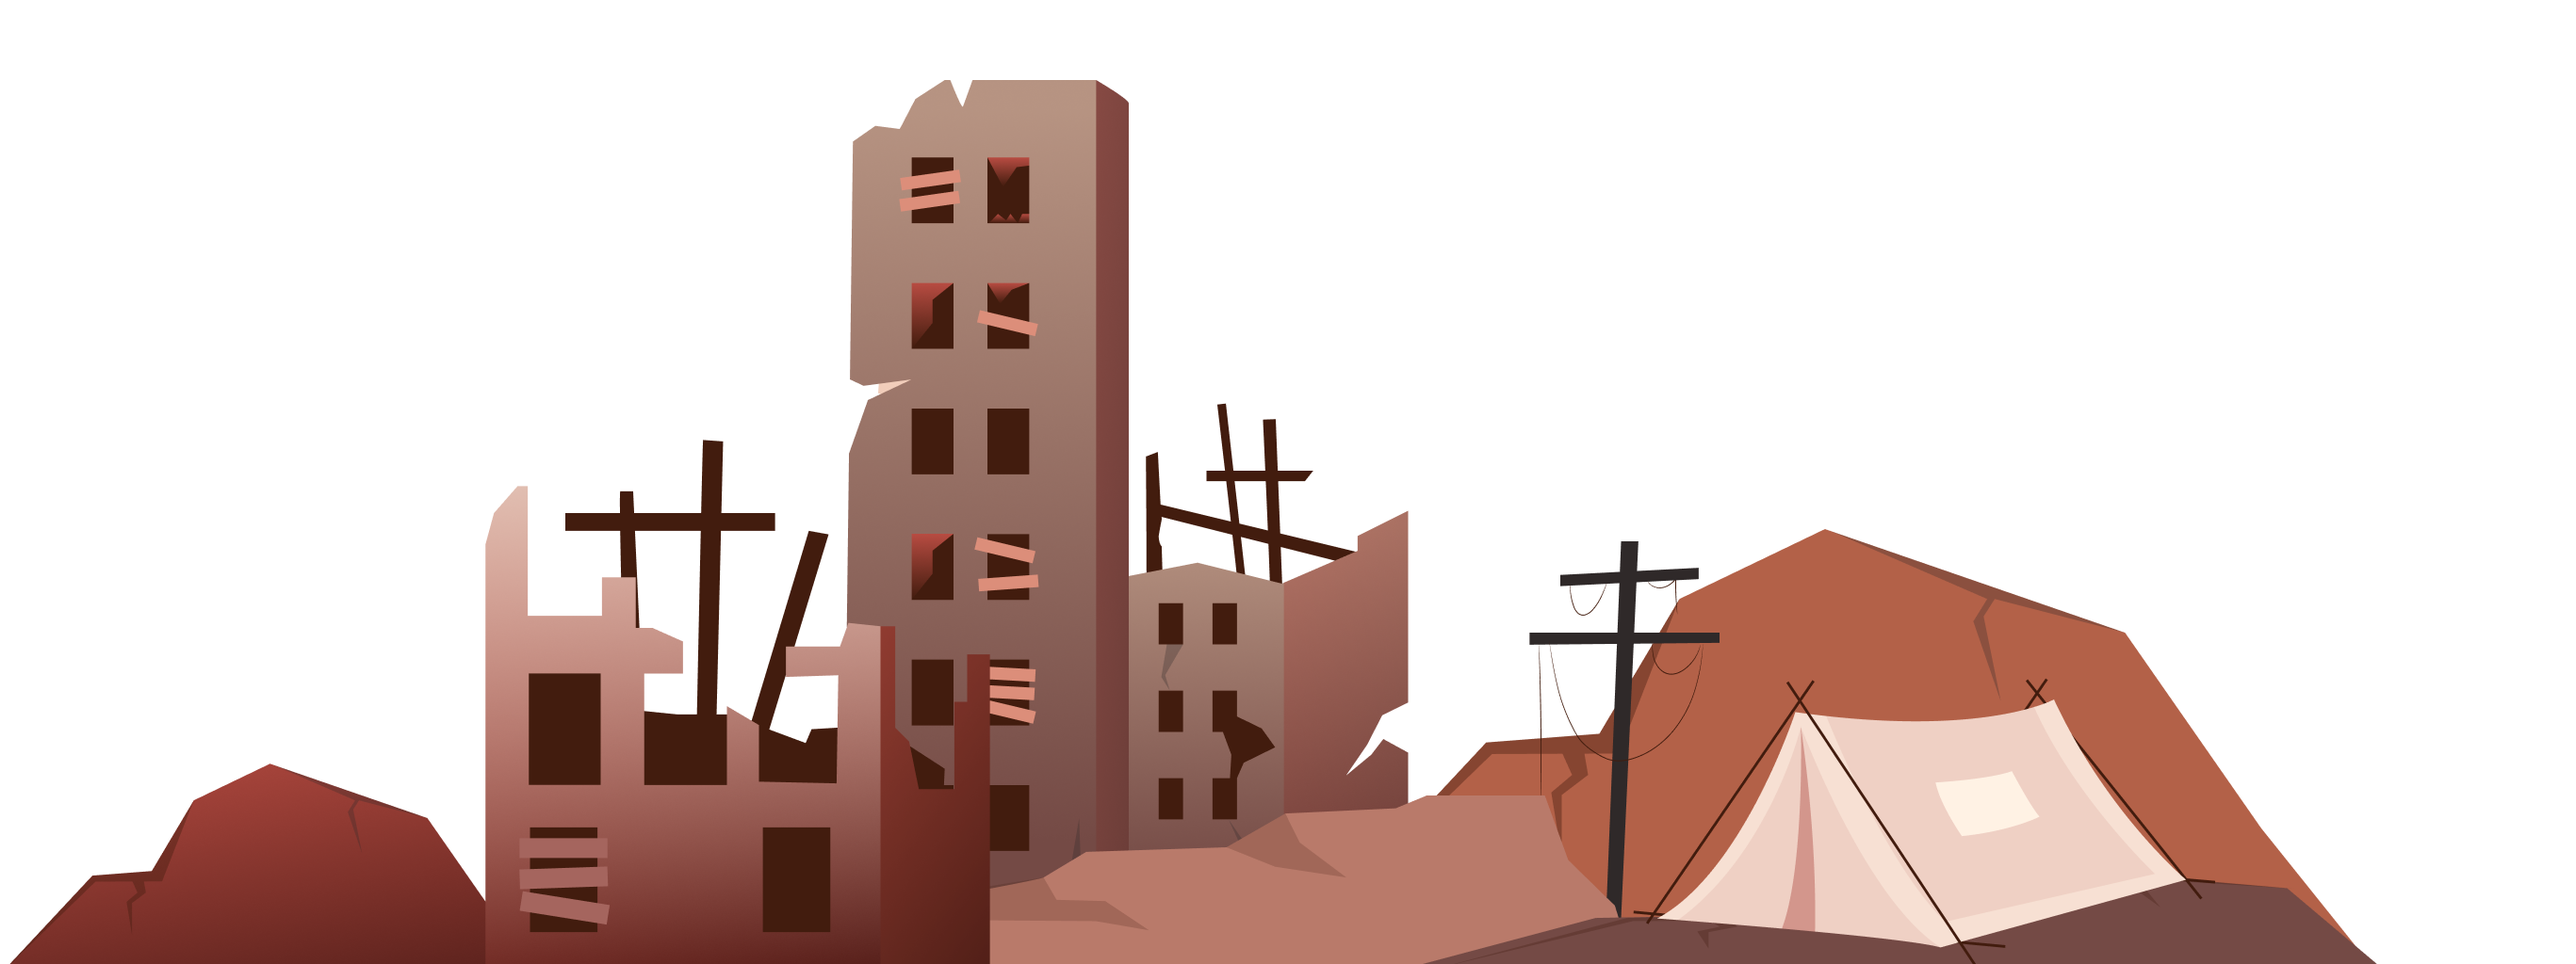
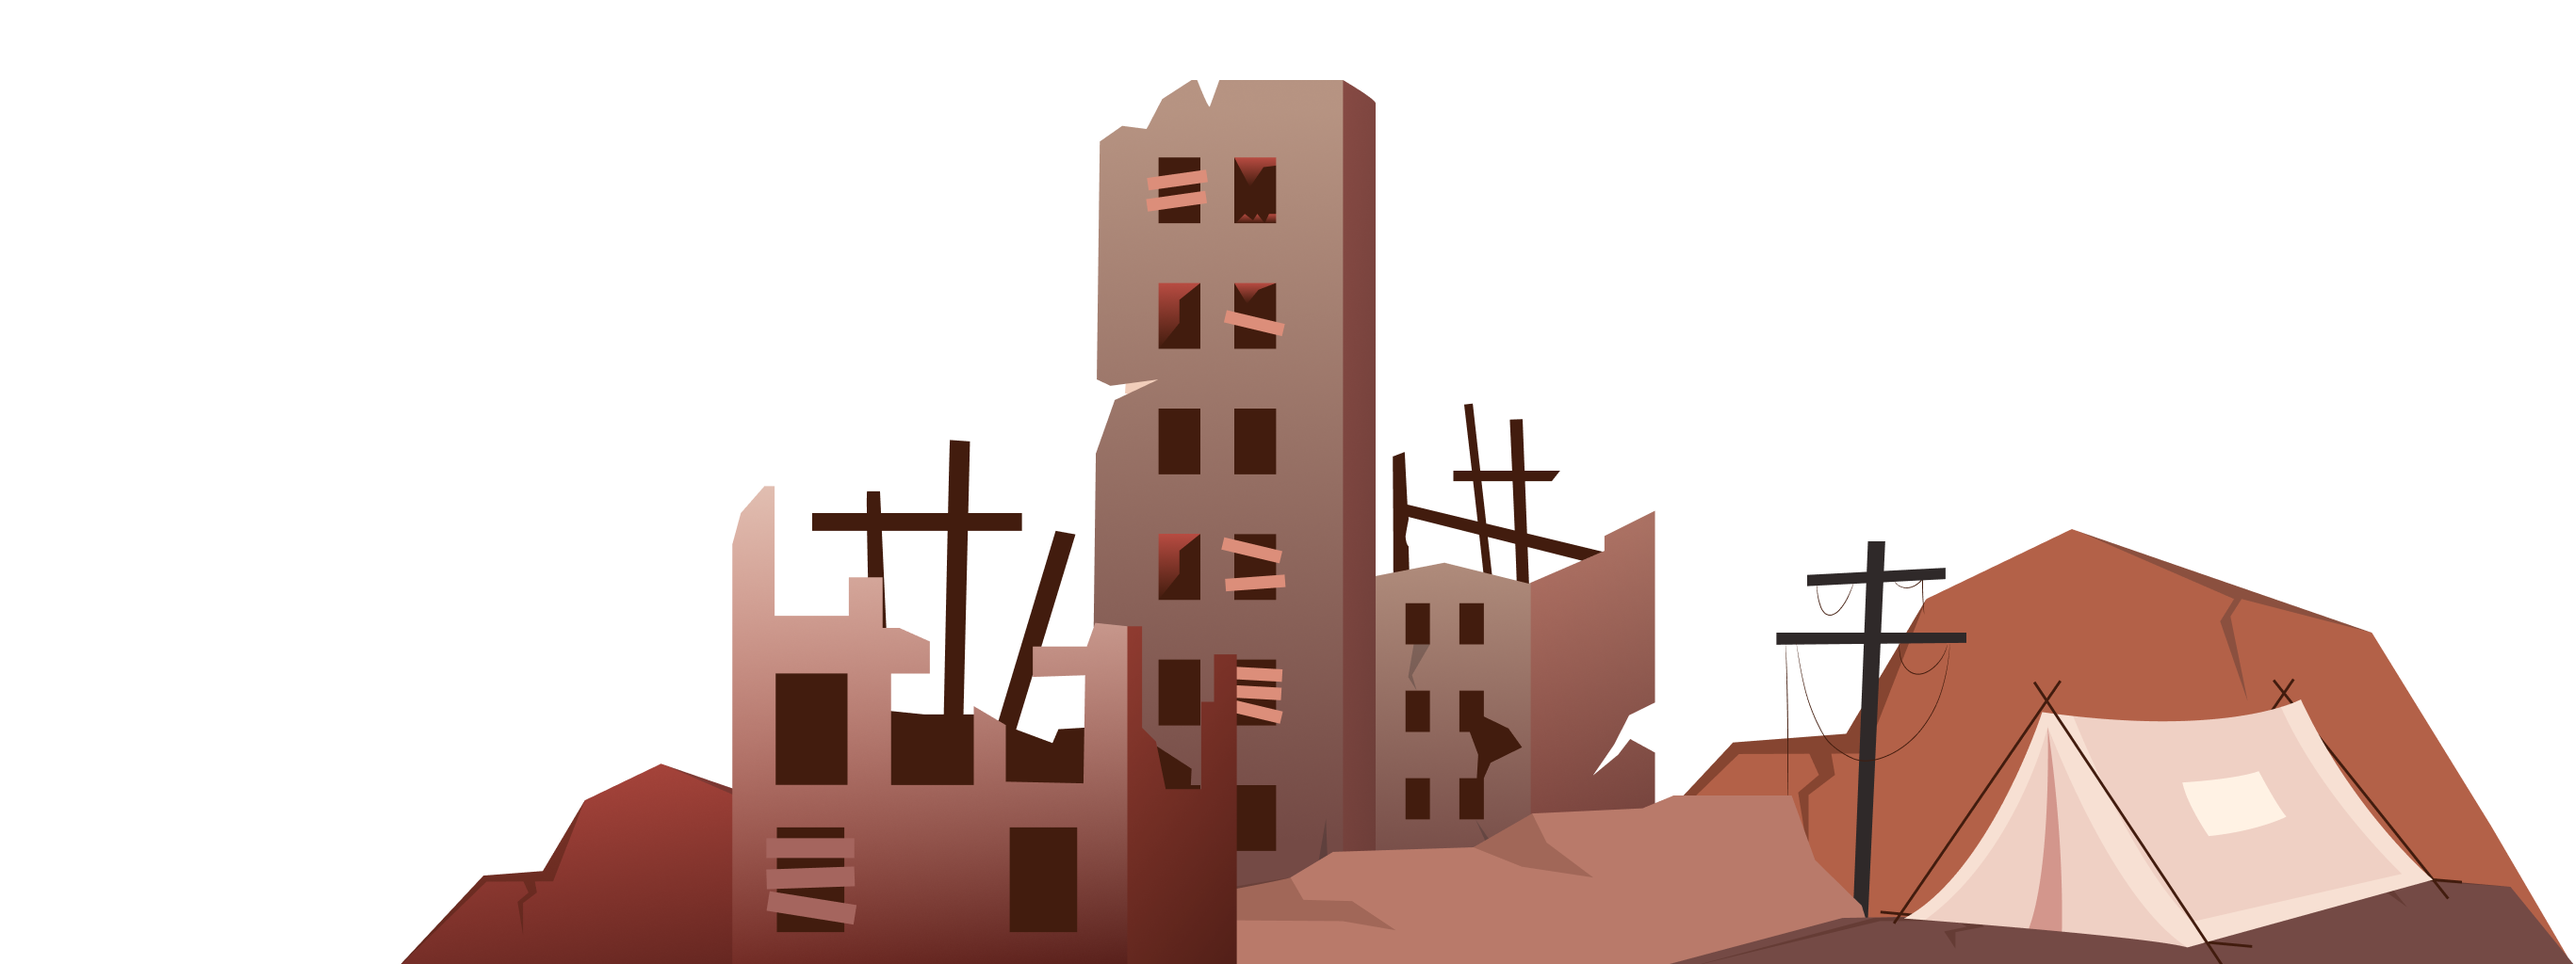
chapter-4 parallax

diff --git a/components/Chapter4.vue b/components/Chapter4.vue
@@ -1,9 +1,13 @@
 <template>
     <section class="b--page-a__item b--chapter4-a" id="Scene4" ref="Scene4" v-if="chapter">
         <div class="b--ss-a"> 
+            <div class="b--ss-a__artwork">
+                <img class="b--ss-a__artwork__media b--ss-a__artwork__media--right" src="@/assets/img/chapter-4/front_tree.png">
+                <img class="b--ss-a__artwork__media b--ss-a__artwork__media--left" src="@/assets/img/chapter-4/front_electric-cable.png">
+            </div>
             <div class="b--ss-a__ft-items">                
-                <img class="b--chapter4-a__artwork" ref="parallax-ft" src="@/assets/img/chapter-4/front-parallax.png">
-                <img v-lazy="require(`@/assets/img/chapter-4/front.png`)" class="b--ss-a__ft-items__artwork b--chapter4-a__artwork"  alt="Tree" />
+                <img class="b--ss-a__ft-items__parallax" ref="parallax-ft" src="@/assets/img/chapter-4/front-parallax.png">
+                <!-- <img class="b--ss-a__ft-items__front" src="@/assets/img/chapter-4/front.png"> -->
             </div>
             <div class="b--ss-a__content">
                 <!-- first position element, card -->
@@ -22,9 +26,10 @@
                     />
                 </div>
             </div>
+            
             <div class="b--ss-a__bg-items">
-                <img class="b--chapter4-a__artwork" ref="parallax-bg" src="@/assets/img/chapter-4/back-parallax.png" alt="">  
-                <img class="b--ss-a__bg-items__artwork" @load="handleLoad"  @error="handleLoad" src="@/assets/img/chapter-4/back.jpg">        
+                <img class="b--ss-a__bg-items__parallax" ref="parallax-bg" src="@/assets/img/chapter-4/back-parallax.png" alt=""> 
+                <img class="b--ss-a__bg-items__back" @load="handleLoad"  @error="handleLoad" src="@/assets/img/chapter-4/back.jpg">     
             </div>
         </div>
     </section>
@@ -95,8 +100,8 @@ export default {
         scrollTween(newValue, oldValue){
             if (newValue ) {
                 var motion = [
-                    {obj:this.$refs['parallax-bg'], intensity:-2.0},
-                    {obj:this.$refs['parallax-ft'], intensity:2.5},
+                    {obj:this.$refs['parallax-bg'], intensity:-1},
+                    {obj:this.$refs['parallax-ft'], intensity:-4},
                 ];
                 motion.forEach(item => {
                     this.parallaxMove({

diff --git a/sass/framework/components/single-story/b--ss-a.scss b/sass/framework/components/single-story/b--ss-a.scss
@@ -1,39 +1,85 @@
 .b--ss-a {
+  position: relative;
+  height: 100vh;
+  &__bg-items {
     position: relative;
-    height: 100vh;
-    &__bg-items {
-      position: relative;
-      top: 0;
-      left: 0;
-      z-index: 0;
-      width: auto;
+    top: 0;
+    left: 0;
+    z-index: 0;
+    width: auto;
+    height: 100%;
+    &__artwork {
       height: 100%;
-      &__artwork{
-        height: 100%;
-      }
     }
-    &__content {
+    // parallax
+    &__parallax {
+      height: 100%;
       position: absolute;
-      bottom: 0;
       right: 0;
-      left: 0;
-      z-index: 2;
-      width: auto;
-      height: 100%;
-      display: flex; // elements horizontlly
-      justify-content: center;
-      align-items: center;
     }
-    &__ft-items {
-      position: absolute;
-      bottom: 0;
-      left: 0;
-      z-index: 4;
+    &__back {
       height: 100%;
-      width: 100%;
-      pointer-events: none;
-      &__artwork{
-        height: 100%;
+    }
+  }
+  &__content {
+    position: absolute;
+    bottom: 0;
+    right: 0;
+    left: 0;
+    z-index: 2;
+    width: auto;
+    height: 100%;
+    display: flex; // elements horizontlly
+    justify-content: center;
+    align-items: center;
+  }
+  &__ft-items {
+    position: absolute;
+    bottom: 0;
+    left: 0;
+    z-index: 4;
+    height: 100%;
+    width: 100%;
+    pointer-events: none;
+    &__artwork {
+      height: 100%;
+    }
+    // parallax
+    &__front {
+      position: absolute;
+      top: 0;
+      bottom: auto;
+      left: auto;
+      right: -4.3%;
+      height: 100vh;
+    }
+    &__parallax {
+      height: 100%;
+      left: auto;
+      right: 0;
+    }
+  }
+  &__artwork {
+    position: absolute;
+    bottom: 0;
+    left: 0;
+    z-index: 4;
+    height: 100%;
+    width: 100%;
+    pointer-events: none;
+    z-index: 300000;
+    &__media {
+      position: absolute;
+      top: 0;
+      bottom: auto;
+      height: 100vh;
+      &--right {
+        left: auto;
+        right: -4.3%;
+      }
+      &--left {
+        left: -6.6%;
       }
     }
+  }
 }

diff --git a/sass/framework/components/chapter/b--chapter4-a.scss b/sass/framework/components/chapter/b--chapter4-a.scss
@@ -1,4 +1,9 @@
 .b--chapter4-a {
+  // z-index to the chapter to see the union elements
+  &.b--page-a__item {
+    z-index: 100;
+  }
+
   .b--ss-a {
     // bigger z-index to be shown above ft items
     &__content {
@@ -46,8 +51,8 @@
       }
     }
   }
-  &__artwork{
-    position:absolute;
+  &__artwork {
+    position: absolute;
   }
   // tent
   // &__artwork {
